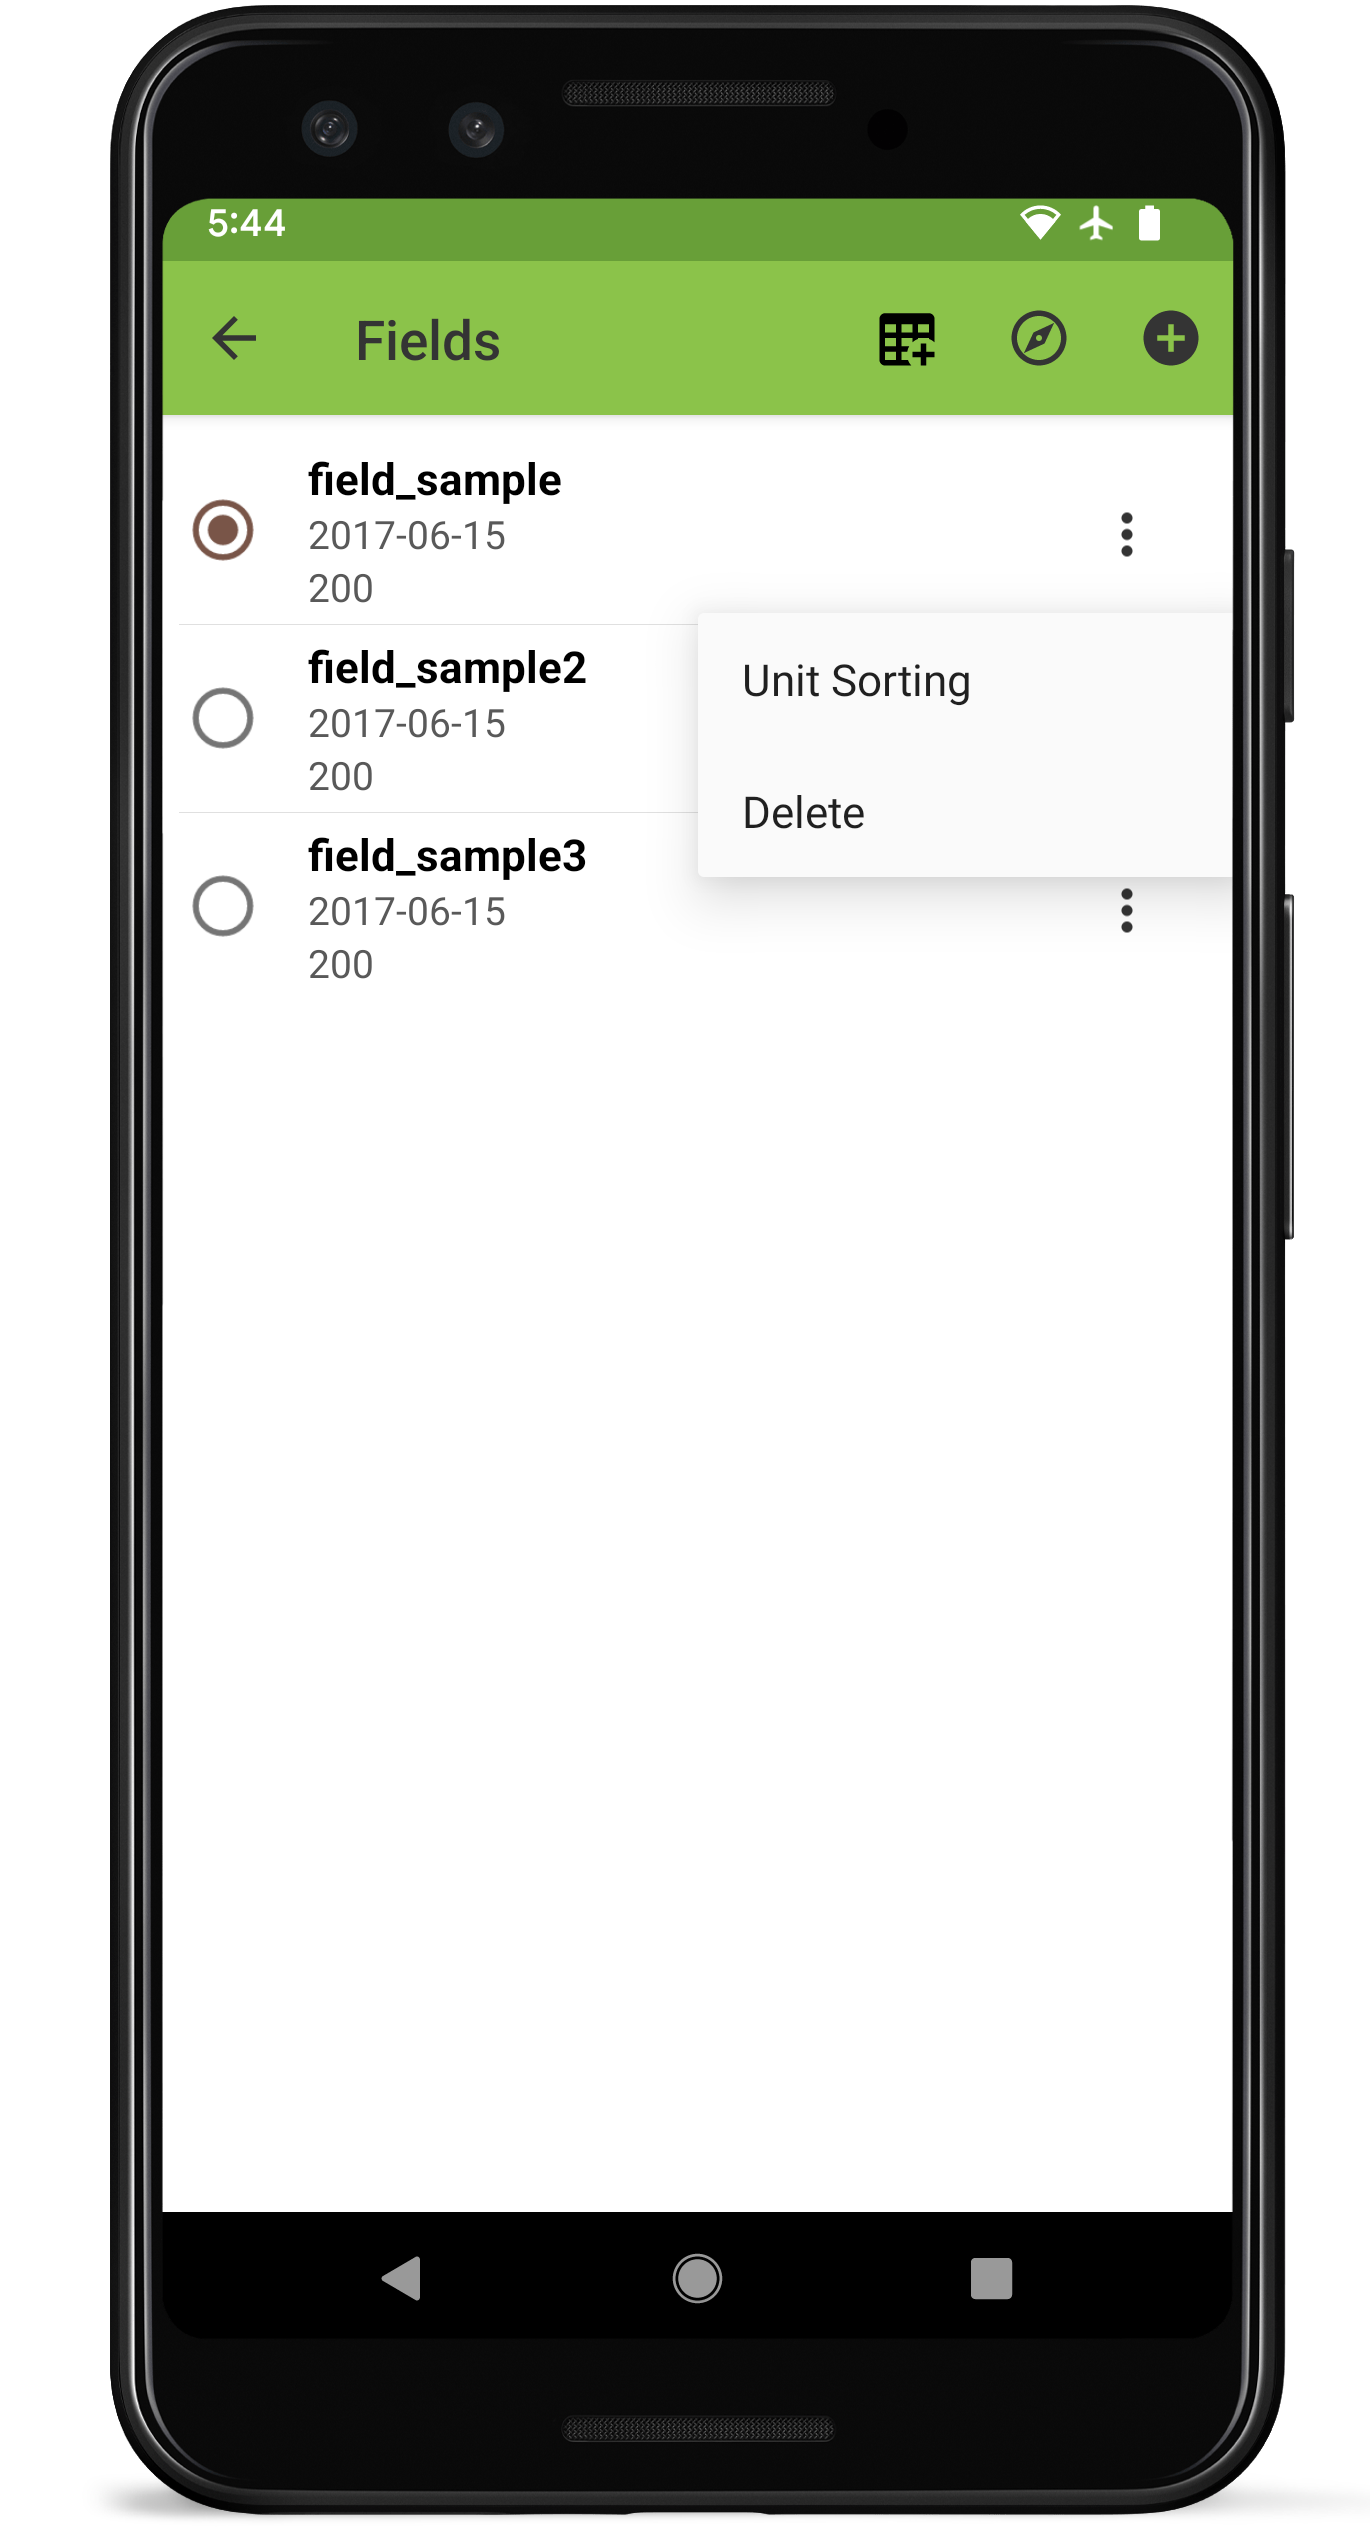
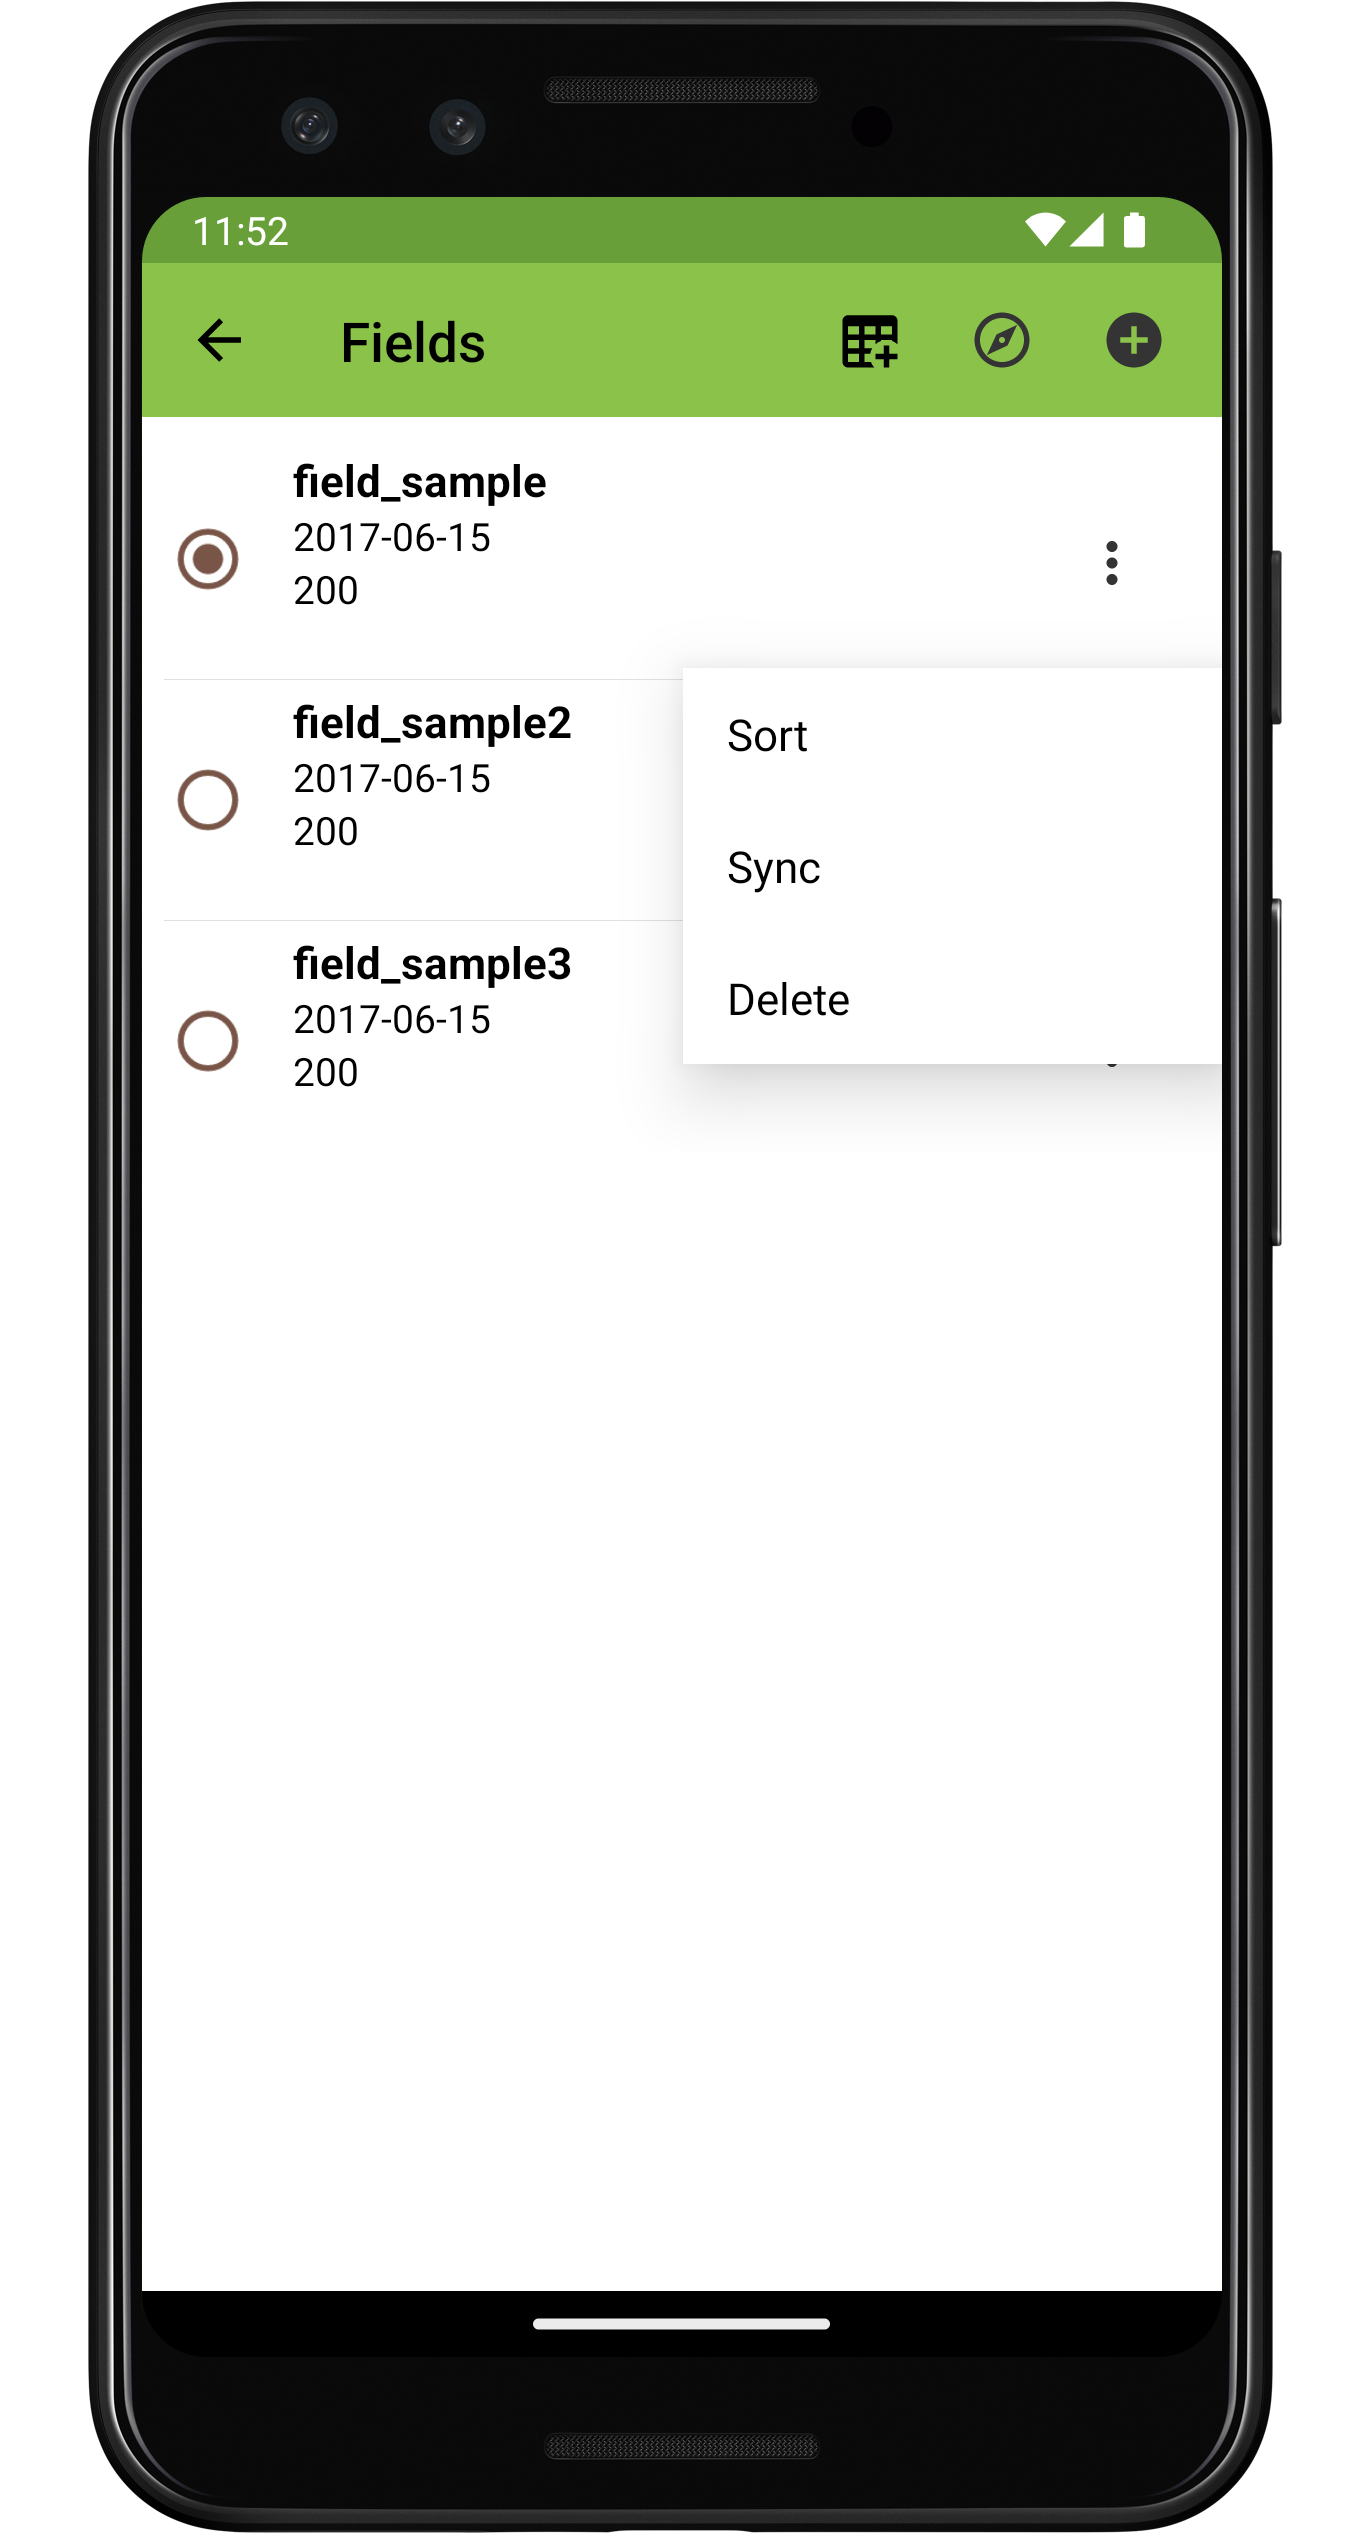
update field sorting and sync docs

diff --git a/docs/source/fields.rst b/docs/source/fields.rst
@@ -92,22 +92,31 @@ To create a new field directly within Field Book press the |create| icon on the 
 Managing fields
 ---------------
 
-.. figure:: /_static/images/fields/fields_list_joined.png
+To activate a field for data collection, select it from the list of fields.
+
+Each row in the fields list displays the Date imported, Date edited, Date exported, and Number of entries.
+
+Pressing the |menu| icon to the right of the trial info opens a list of options.
+
+.. figure:: /_static/images/fields/fields_list_menu_framed.png
+   :width: 40%
+   :align: center
+   :alt: Field management menu options
+
+   Field management menu options
+   
+   * `Sort` provides a dialog to update the plot ordering. Populate the sort menu by pressing the |add| icon, and selecting from the list of imported columns. Once columns have been added, change their relative priority by using the |reorder| icon to drag and reorder them. Press the |sort| icon to toggle the sort between ascending and descending. Press the |delete| icon to remove a column. 
+
+.. figure:: /_static/images/fields/fields_sorting_joined.png
    :width: 80%
    :align: center
-   :alt: Field management screens
+   :alt: Field sorting steps
 
-   Managing existing fields
-
-To activate a field for data collection, select it from the list of fields. Each row in the fields list displays the Date imported, Date edited, Date exported, and Number of entries.
-
-Pressing the 'More options' icon to the right of the trial info opens a sub menu.
-
-   * Delete removes the trial and all associated data. A confirmation message will be shown first, to confirm that deletion is not triggered accidentally.
+   Field sorting steps
    
-   * Sync connects to the BrAPI sever that is configured in settings, updating the trial with any data that has been added since its last sync or import.
-   
-   * Sort provides dialog to update the plot ordering by selecting different identifiers from a list of imported columns   
+   * `Sync` connects to the server that is configured in |brapi-settings| :doc:`settings-brapi`, updating the trial with any data that has been added since its last sync or import. Ignore this option for trials imported from a file.
+
+   * `Delete`` removes the trial and all associated data. A confirmation message will be shown first, to confirm that deletion is not triggered accidentally.
 
 .. |geonav| image:: /_static/icons/settings/main/map-search.png
   :width: 20
@@ -122,4 +131,13 @@ Pressing the 'More options' icon to the right of the trial info opens a sub menu
   :width: 20
 
 .. |create| image:: /_static/icons/fields/table-large-plus.png
+  :width: 20
+
+.. |reorder| image:: /_static/icons/traits/reorder-horizontal.png
+  :width: 20
+
+.. |sort| image:: /_static/icons/fields/sort-ascending.png
+  :width: 20
+
+.. |delete| image:: /_static/icons/settings/sounds/delete.png
   :width: 20
